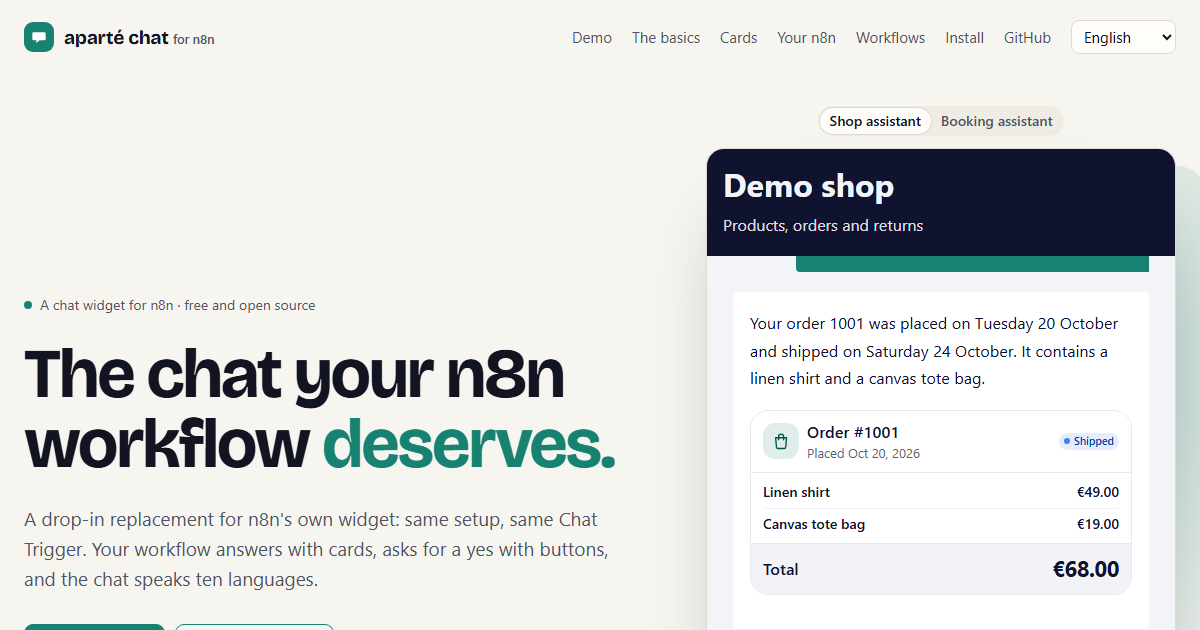
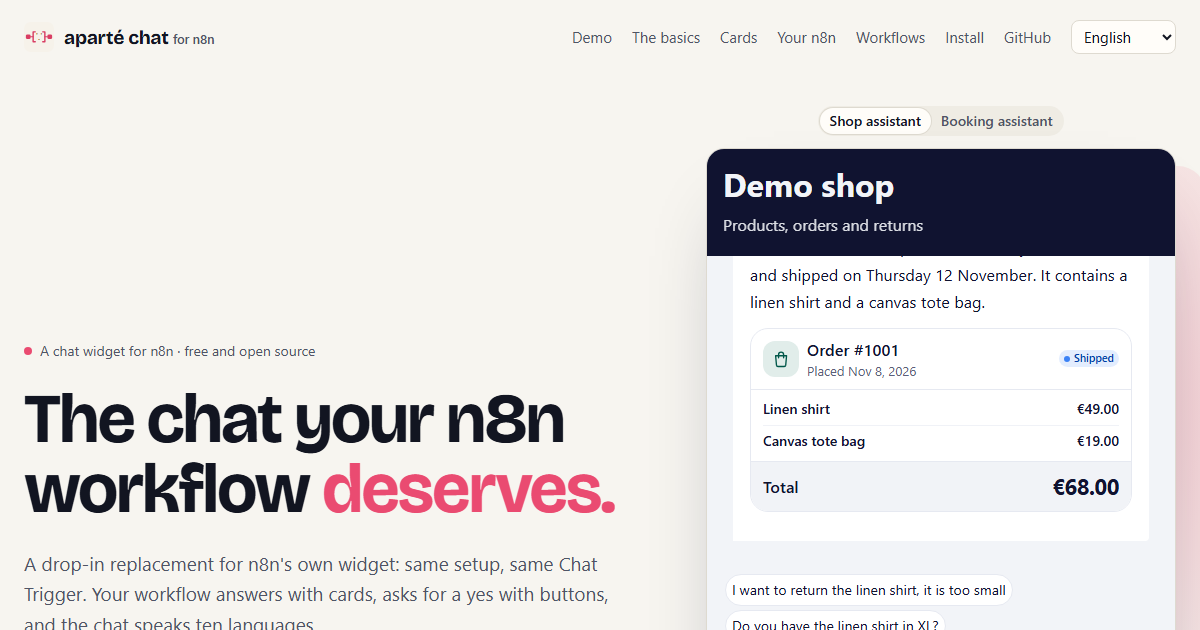
feat: the site wears aparté's family mark for n8n, and n8n's pink
The mark: the face ' . ' on aparté's ground, between two workflow nodes whose wires close into [ ],
the chat in the middle of the workflow, in n8n's pink (#EA4B71, read on n8n's own logo); dark by
default, light with the device's light scheme. It is the tab's icon and the header's logo, which drew
a white speech bubble on teal before. The site's colours follow: n8n's pink for areas, a deeper one for
text in the light (#C02653, 5.3:1 on the paper) and a lighter one in the dark (#F5839E, 7.8:1). The
demo's chat keeps the widget's own teal, its default. og.png retaken from the page.

diff --git a/public/site.css b/public/site.css
@@ -1,4 +1,4 @@
-/* The site's own identity — paper, ink and the widget's own teal — worn by aparté's components
+/* The site's own identity — paper, ink and n8n's pink — worn by aparté's components
    (buttons, tabs, cards, tags, fields) through their tokens. What is here is the identity and
    the layout; the controls' look is aparté's. */
 
@@ -9,8 +9,9 @@
   --ink: #121521;
   --ink-2: #4f5466;
   --line: #dedad0;
-  --teal: #178272;
-  --teal-ink: #0f5e52;
+  /* n8n's pink (#EA4B71, its logo's) for areas; deeper for text, which needs 4.5:1 on the paper (5.3). */
+  --pink: #ea4b71;
+  --pink-ink: #c02653;
   --navy: #101330;
   --code-bg: #fffdf9;
   --display: 'Bricolage Grotesque', ui-sans-serif, system-ui, sans-serif;
@@ -27,8 +28,8 @@
     --ink: #eef0f6;
     --ink-2: #a3a8bb;
     --line: #262a38;
-    --teal: #2bb39e;
-    --teal-ink: #5fd0bd;
+    --pink: #ea4b71;
+    --pink-ink: #f5839e;
     --code-bg: #141722;
     color-scheme: dark;
   }
@@ -36,9 +37,9 @@
 
 /* aparté's recipes in the site's colours (not the chat's: it keeps its own n8n look). */
 .site {
-  --aparte-primary: var(--teal);
-  --aparte-primary-hover: var(--teal-ink);
-  --aparte-primary-ink: var(--teal-ink);
+  --aparte-primary: var(--pink);
+  --aparte-primary-hover: var(--pink-ink);
+  --aparte-primary-ink: var(--pink-ink);
   --aparte-text: var(--ink);
   --aparte-text-muted: var(--ink-2);
   --aparte-border: var(--line);
@@ -51,7 +52,7 @@
 html { scroll-behavior: smooth; }
 @media (prefers-reduced-motion: reduce) { html { scroll-behavior: auto; } }
 body { margin: 0; background: var(--paper); color: var(--ink); font: 16px/1.6 var(--body); }
-a { color: var(--teal-ink); }
+a { color: var(--pink-ink); }
 code { font-family: var(--mono); font-size: 0.9em; }
 h1, h2, h3 { font-family: var(--display); letter-spacing: -0.02em; }
 h2 { font-size: clamp(30px, 4vw, 40px); line-height: 1.1; margin: 0 0 14px; }
@@ -68,7 +69,7 @@ h3 { font-size: 24px; margin: 0 0 10px; }
 /* Header */
 .top { display: flex; align-items: center; justify-content: space-between; gap: 16px; flex-wrap: wrap; max-width: 1200px; margin: 0 auto; padding: 20px 24px; }
 .logo { display: flex; align-items: center; gap: 10px; color: var(--ink); text-decoration: none; font: 700 19px var(--display); letter-spacing: -0.01em; }
-.logo-mark { width: 30px; height: 30px; border-radius: 9px; background: var(--teal); display: grid; place-items: center; }
+.logo-mark { width: 30px; height: 30px; display: block; }
 .logo small { font: 500 13px var(--body); color: var(--ink-2); }
 .top nav { display: flex; align-items: center; gap: 20px; flex-wrap: wrap; font-size: 15px; }
 .top nav a { color: var(--ink-2); text-decoration: none; }
@@ -78,9 +79,9 @@ select { font: inherit; color: var(--ink); background: var(--card); border: 1px 
 /* Hero */
 .hero { display: grid; grid-template-columns: minmax(0, 1fr) minmax(0, 470px); gap: 64px; align-items: center; padding-top: 32px; padding-bottom: 80px; scroll-margin-top: 16px; }
 .eyebrow { display: inline-flex; gap: 8px; align-items: center; margin: 0 0 22px; font-size: 14px; color: var(--ink-2); }
-.eyebrow .dot { width: 8px; height: 8px; border-radius: 50%; background: var(--teal); }
+.eyebrow .dot { width: 8px; height: 8px; border-radius: 50%; background: var(--pink); }
 h1 { font-size: clamp(42px, 6vw, 70px); line-height: 1; letter-spacing: -0.03em; margin: 0 0 24px; }
-h1 span { color: var(--teal); }
+h1 span { color: var(--pink); }
 .lead { font-size: 19px; color: var(--ink-2); max-width: 32em; margin: 0 0 30px; }
 .ctas { display: flex; gap: 10px; flex-wrap: wrap; margin-bottom: 34px; }
 .proof { display: flex; gap: 26px; flex-wrap: wrap; padding: 18px 0 0; margin: 0; border-top: 1px solid var(--line); }
@@ -89,7 +90,7 @@ h1 span { color: var(--teal); }
 
 .stage { position: relative; display: flex; flex-direction: column; gap: 12px; }
 .stage::before { content: ''; position: absolute; inset: 60px -30px 80px 40px; border-radius: 28px;
-  background: radial-gradient(circle at 70% 30%, color-mix(in srgb, var(--teal) 28%, transparent), transparent 65%); z-index: -1; }
+  background: radial-gradient(circle at 70% 30%, color-mix(in srgb, var(--pink) 28%, transparent), transparent 65%); z-index: -1; }
 .stage > .aparte-tabs { align-self: center; }
 .demo { height: 580px; border-radius: 18px; overflow: hidden; border: 1px solid var(--line); box-shadow: 0 40px 80px -40px rgb(16 19 48 / 0.45); background: var(--paper); }
 .demo[hidden], .floating-note[hidden] { display: none; }
@@ -108,7 +109,7 @@ h1 span { color: var(--teal); }
 .config-dialog .code { margin: 0; overflow-x: auto; }
 .swatch { width: 22px; height: 22px; border-radius: 50%; border: 2px solid var(--paper); box-shadow: 0 0 0 1px var(--line); cursor: pointer; padding: 0; }
 .swatch[aria-pressed="true"] { box-shadow: 0 0 0 2px var(--ink); }
-.swatch:focus-visible { outline: 2px solid var(--teal); outline-offset: 3px; }
+.swatch:focus-visible { outline: 2px solid var(--pink); outline-offset: 3px; }
 /* Your own color: the browser's picker, drawn as one more swatch with a rainbow until it is used. */
 .swatch--custom { appearance: none; -webkit-appearance: none; background: conic-gradient(#e11d48, #f59e0b, #16a34a, #0ea5e9, #7c3aed, #e11d48); overflow: hidden; }
 .swatch--custom::-webkit-color-swatch-wrapper { padding: 0; }
@@ -162,7 +163,7 @@ h1 span { color: var(--teal); }
 .check { display: flex; gap: 8px; align-items: center; font-size: 14px; color: var(--ink-2); }
 .status { min-height: 1.6em; margin: 0; font-size: 14px; }
 .status[data-tone="error"] { color: #c2410c; }
-.status[data-tone="ok"] { color: var(--teal-ink); }
+.status[data-tone="ok"] { color: var(--pink-ink); }
 
 /* Workflows */
 .grid { display: grid; grid-template-columns: repeat(3, 1fr); gap: 20px; }
@@ -181,7 +182,7 @@ h1 span { color: var(--teal); }
 .compare { width: 100%; border-collapse: collapse; font-size: 15px; }
 .compare th, .compare td { text-align: start; padding: 12px 14px; border-bottom: 1px solid var(--line); vertical-align: top; }
 .compare thead th { color: var(--ink-2); font-weight: 600; font-size: 13px; }
-.compare thead th:nth-child(3) { color: var(--teal-ink); }
+.compare thead th:nth-child(3) { color: var(--pink-ink); }
 .compare tbody th { font-weight: 600; width: 32%; }
 .compare td:nth-child(2) { color: var(--ink-2); }
 

diff --git a/partials/head.html b/partials/head.html
@@ -33,7 +33,7 @@
 <body class="site">
 <a class="skip" href="#main">{{nav.skip}}</a>
 <header class="top">
-  <a class="logo" href="/{{lang}}/"><span class="logo-mark" aria-hidden="true"><svg width="16" height="16" viewBox="0 0 24 24" fill="#fff"><path d="M4 5h16a2 2 0 0 1 2 2v8a2 2 0 0 1-2 2h-7l-5 4v-4H4a2 2 0 0 1-2-2V7a2 2 0 0 1 2-2z"/></svg></span>
+  <a class="logo" href="/{{lang}}/"><img class="logo-mark" src="/favicon.svg" width="30" height="30" alt="">
     <span>aparté chat <small>for n8n</small></span></a>
   <nav aria-label="Sections">
     <a href="/{{lang}}/#demo">{{nav.demo}}</a>
